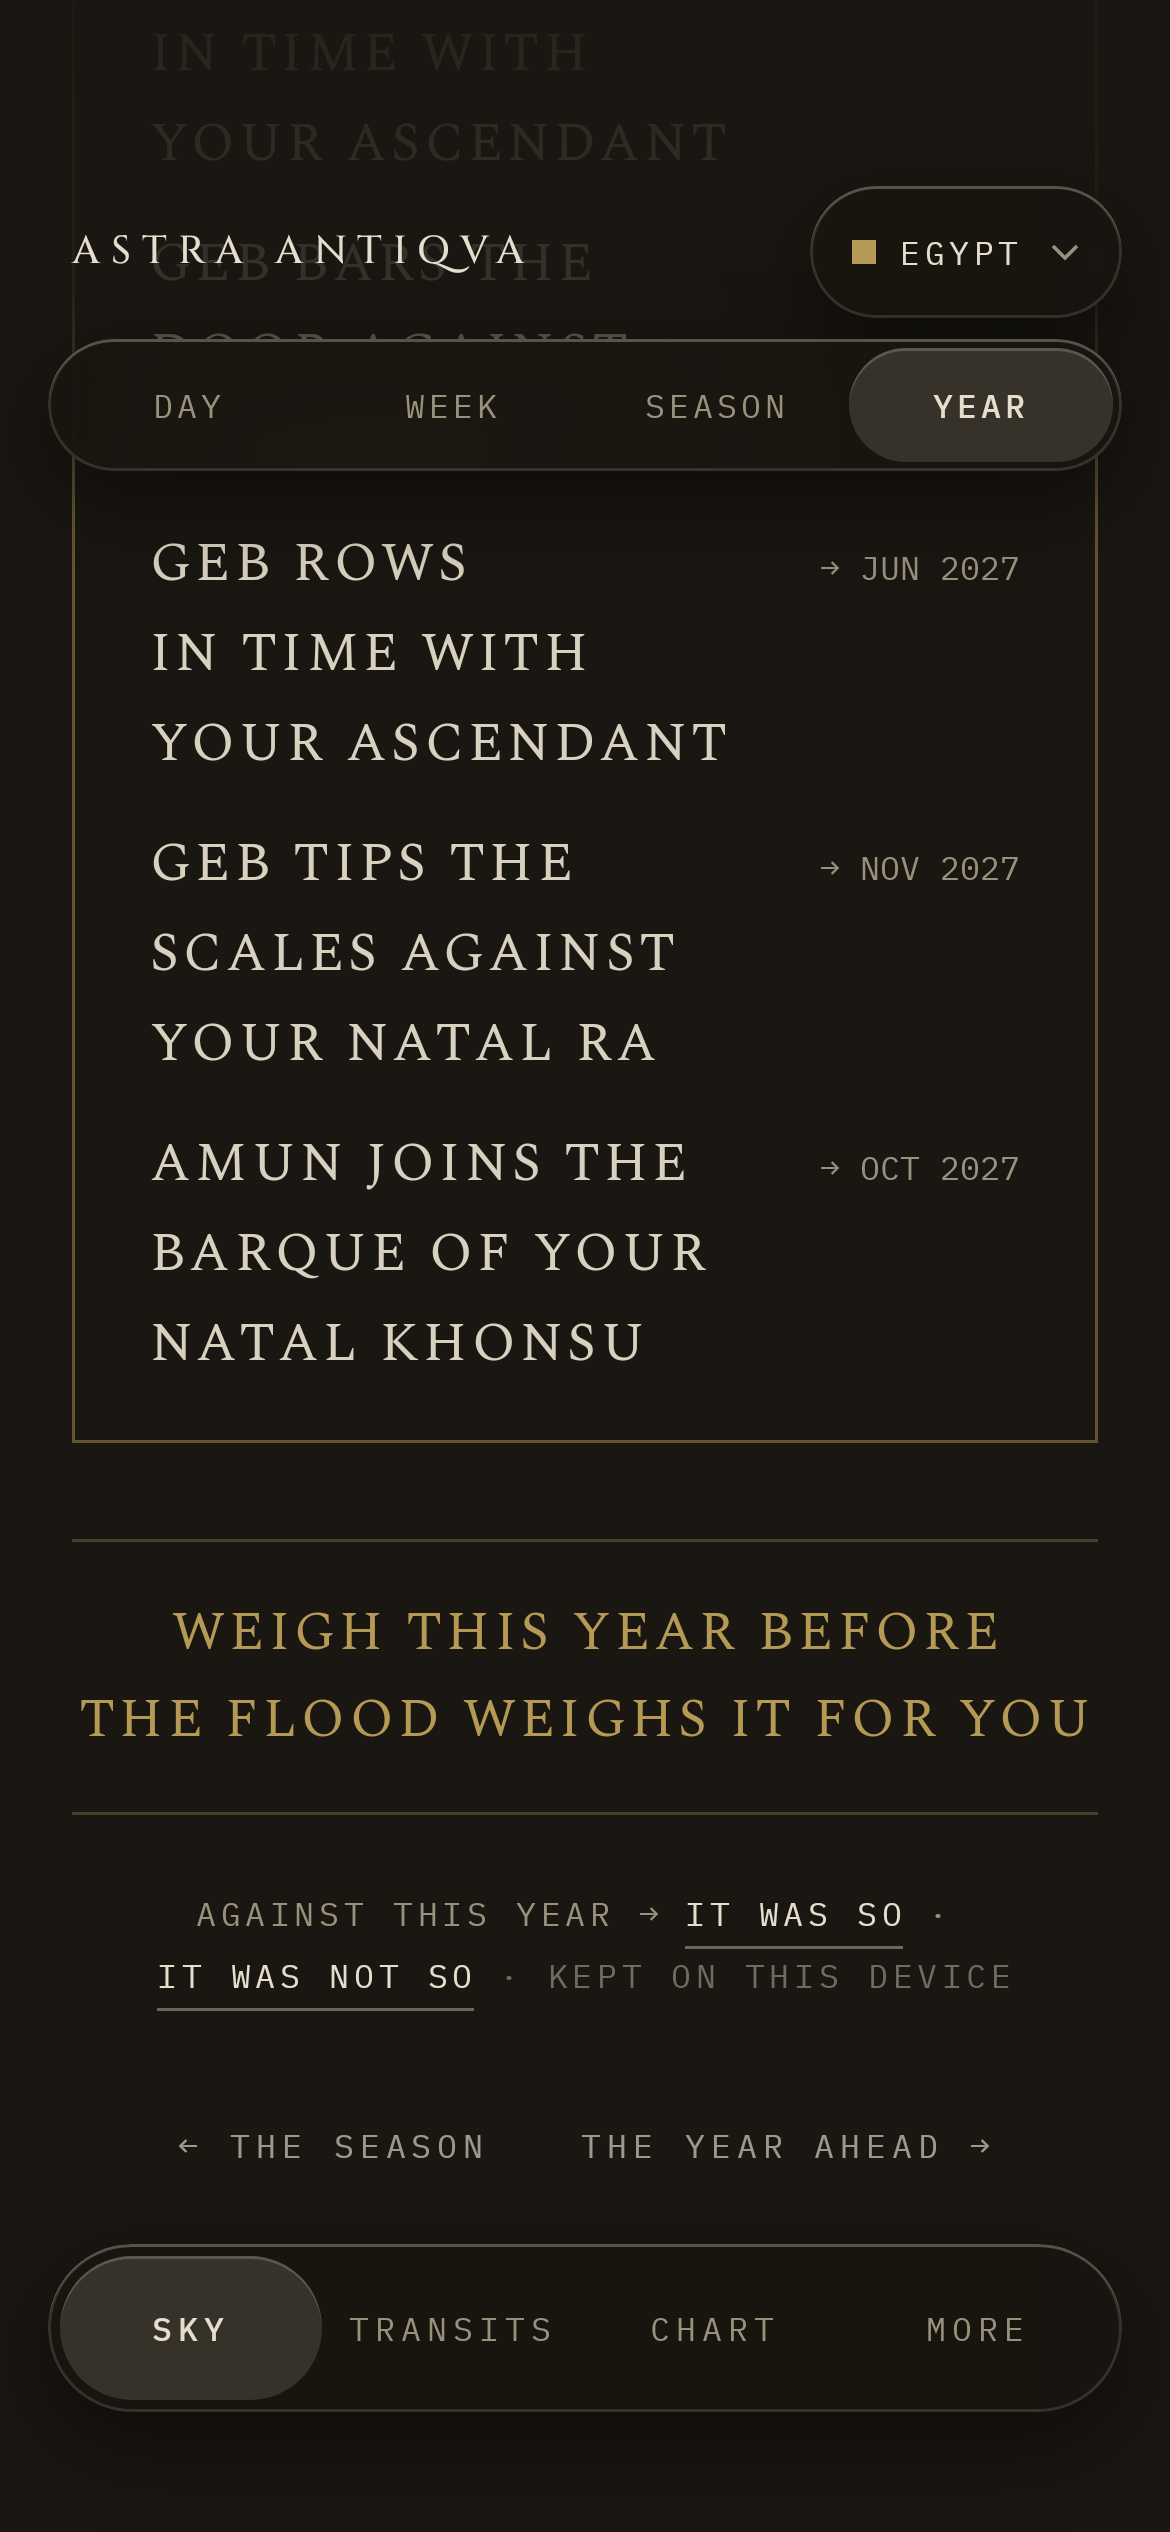
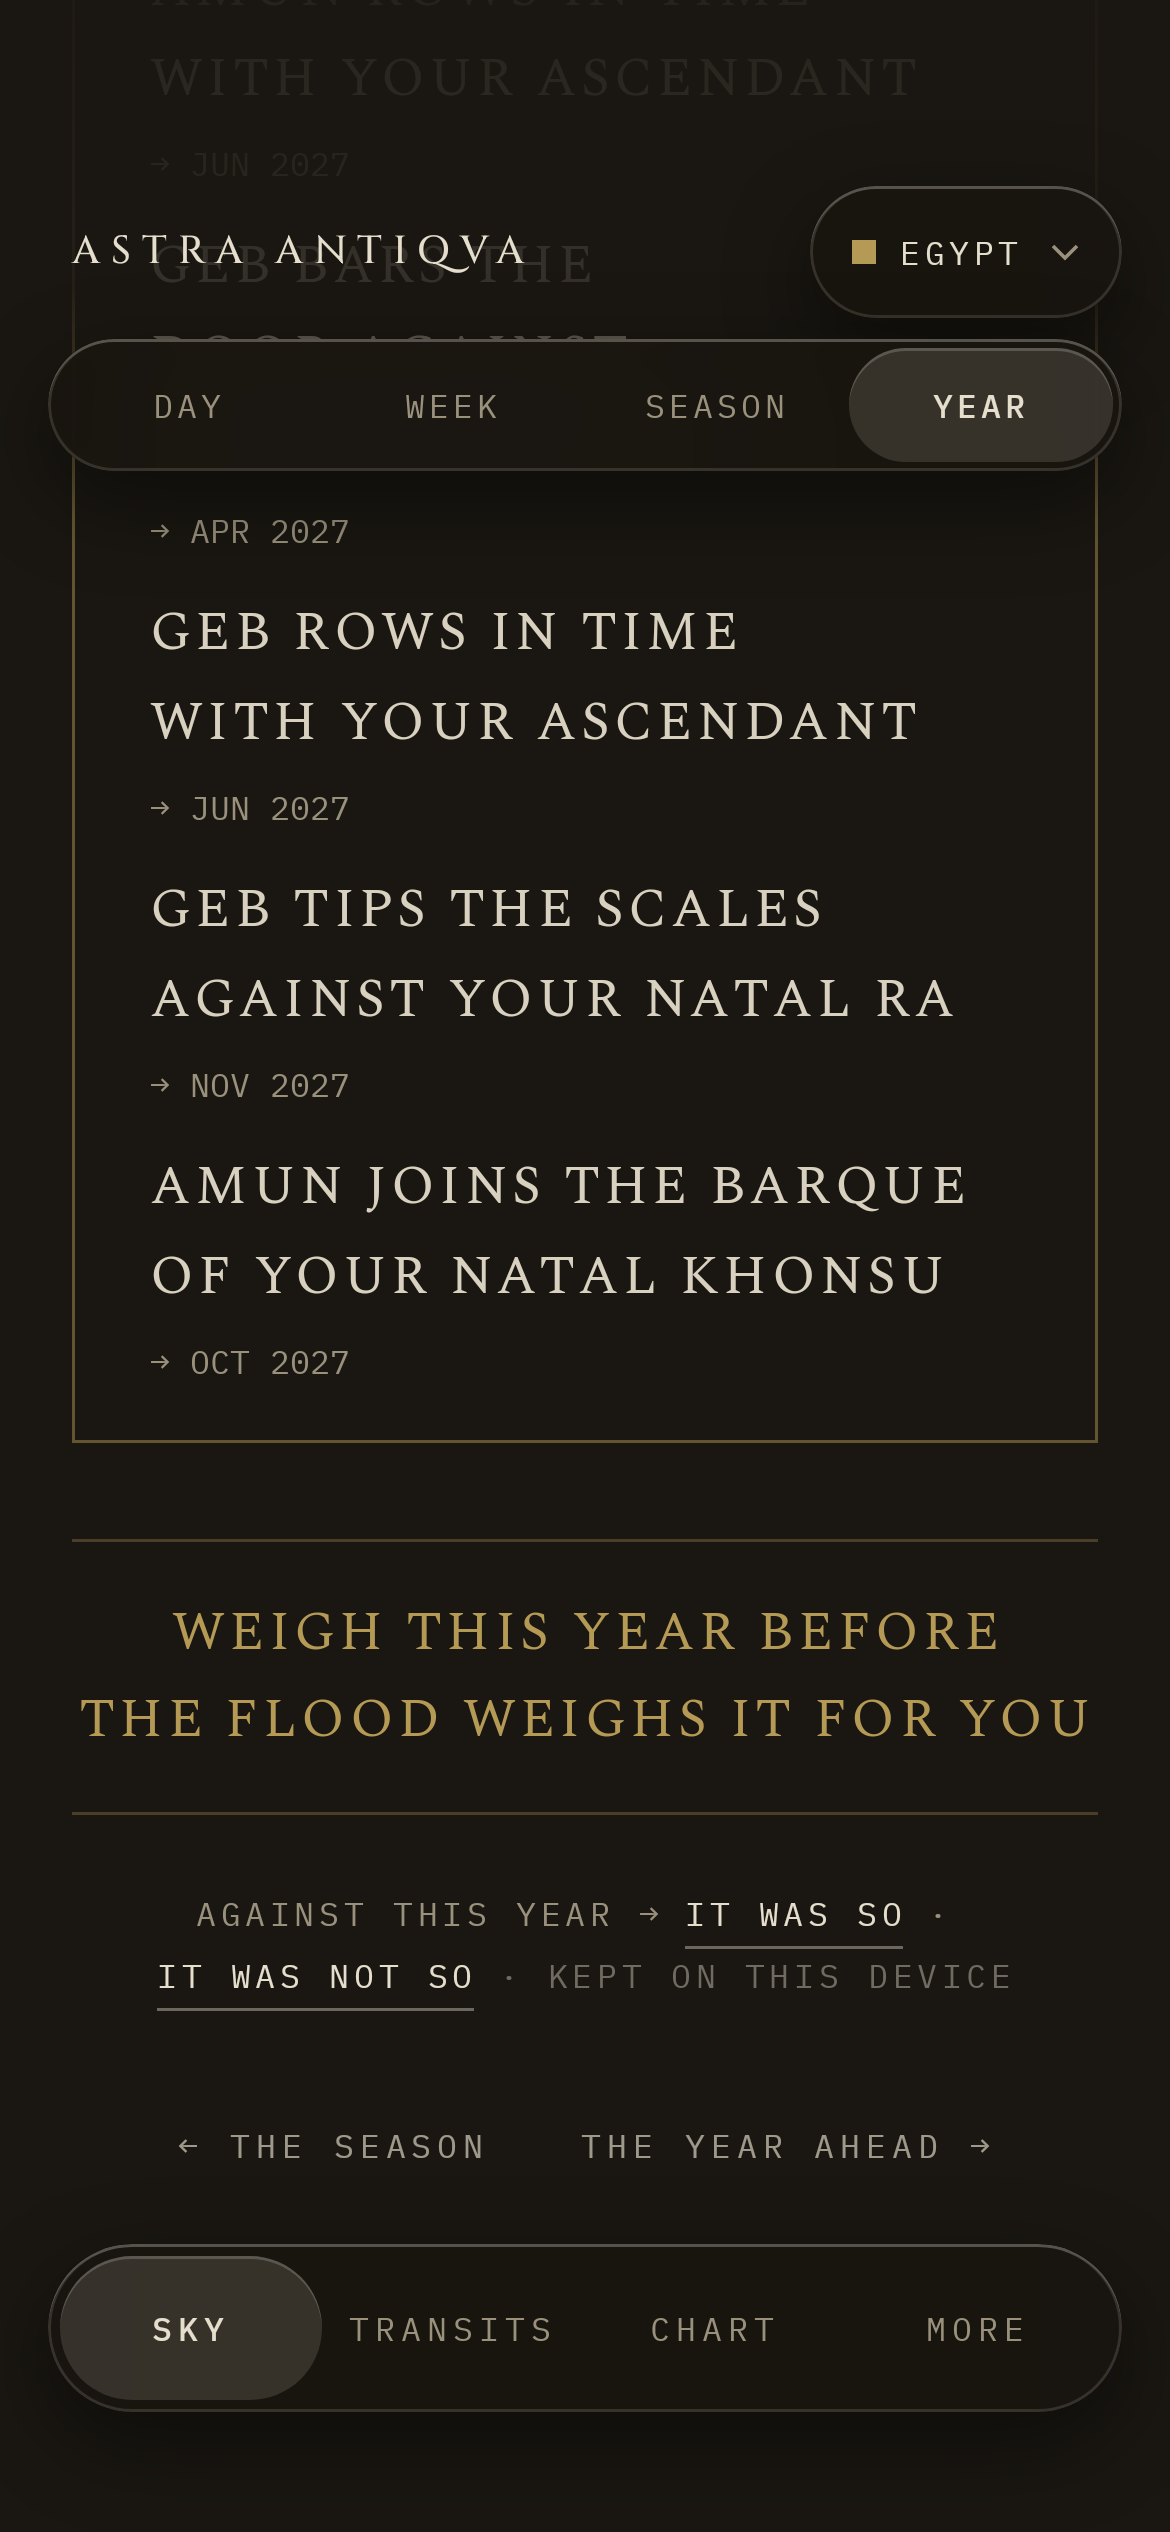
fix(android): Year spine end month under the headline, one size
Matthew's ruling: the headline takes the full width at 18sp .08em with
the end month 4 under it, at every width. Greece's spine rows at 360 and
the 1.3 spine rows no longer need named exceptions. 353 tests, 0 failures.

diff --git a/android/app/src/test/java/com/astra/antiqua/ui/screens/SkyYearScreenshotTest.kt b/android/app/src/test/java/com/astra/antiqua/ui/screens/SkyYearScreenshotTest.kt
@@ -256,12 +256,38 @@ class SkyYearScreenshotTest {
         compose.onNodeWithTag("year-segments").assertDoesNotExist()
     }
 
+    /**
+     * The spine rows (Matthew's popup, 2026-11-01, "End month under headline", "One size for the list"): the
+     * headline across the row's full width, the end month 4 under it (web's gap-1) on the headline's left edge,
+     * every row 48 or taller. Notes each row's height.
+     */
+    private fun unmergedBox(id: String): Rect =
+        compose.onNodeWithTag(id, useUnmergedTree = true).getUnclippedBoundsInRoot().let { Rect(it.left.value, it.top.value, (it.right - it.left).value, (it.bottom - it.top).value) }
+
+    private fun assertSpine(name: String) {
+        var i = 1
+        while (compose.onAllNodes(androidx.compose.ui.test.hasTestTag("spine-$i"), useUnmergedTree = true).fetchSemanticsNodes().isNotEmpty()) {
+            val row = box("spine-$i")
+            // Inside the row's cleared semantics: the unmerged tree.
+            val head = unmergedBox("spine-$i-headline")
+            val end = unmergedBox("spine-$i-end")
+            note("%s spine-%d %.1f tall (headline %.1f, end month %.1f)".format(name, i, row.h, head.h, end.h))
+            assertTrue("$name spine-$i headline spans the row: $head $row", abs(head.x - row.x) <= 0.5f && abs(head.w - row.w) <= 0.5f)
+            assertTrue("$name spine-$i end month 4 under the headline: $head $end", abs(end.y - (head.y + head.h) - 4f) <= 0.5f)
+            assertTrue("$name spine-$i end month on the headline's edge: $end", abs(end.x - head.x) <= 0.5f)
+            assertTrue("$name spine-$i under 48: $row", row.h >= 48f)
+            i++
+        }
+        assertTrue("$name: no spine rows", i > 1)
+    }
+
     @Test
     fun skyYearLargeFont() {
         // At 1.3 the title, the count line and the rows grow; the gaps between them hold.
         render("sky-year-font-130", AncientCulture.EGYPT, 0, fontScale = 1.3f)
         assertGaps("sky-year-font-130", boardGaps.take(7))
         note("sky-year-font-130 P44 %.1f tall, P45 %.1f, P47 %.1f".format(box("P44").h, box("P45").h, box("P47").h))
+        assertSpine("sky-year-font-130")
     }
 
     @Test
@@ -272,6 +298,7 @@ class SkyYearScreenshotTest {
         assertGaps("sky-year-360", boardGaps.take(7))
         val row = box("P47")
         note("sky-year-360 P47 got %.1f, %.1f · %.1fx%.1f".format(row.x, row.y, row.w, row.h))
+        assertSpine("sky-year-360")
         assertTrue("$row", abs(row.x - 45f) <= 1f && abs(row.w - 291f) <= 1f)
     }
 
@@ -296,6 +323,7 @@ class SkyYearScreenshotTest {
     fun skyYearEnd() {
         // The page's foot: web's opening, the segments, the spine, the votive, the feedback row and the links.
         render("sky-year-end", AncientCulture.EGYPT, 6000)
+        assertSpine("sky-year-end")
         assertChrome("sky-year-end")
         listOf("year-opening", "year-segments", "segment-1", "segment-2", "segment-3", "year-spine", "year-votive", "year-feedback", "year-links").forEach {
             noteBox("sky-year-end", it)
@@ -433,28 +461,8 @@ class SkyYearScreenshotTest {
 
     @Test
     @Config(qualifiers = "w360dp-h780dp-xxhdpi")
-    fun noLoneWordInAnyCultureAt360() = loneSweep("sky-year 360", allowed = narrowSpine)
-
-    /**
-     * The named exceptions at 360 (Greece's spine). A spine headline has 181 dp beside its end month; at the
-     * floor (16sp, .04em) KRONOS CHALLENGES and every two-word run holding SHOULDER WITH YOUR NATAL SELENE's
-     * last line are still wider, so no break gives each line two words. Only a string change (web's
-     * spanHeadline) or a different row layout clears them.
-     */
-    private val narrowSpine = mapOf(
-        "sky-year 360 GREECE [spine-4] KRONOS" to "KRONOS CHALLENGES YOUR NATAL HELIOS: KRONOS CHALLENGES does not fit 181 dp at 16sp; needs a string or layout change",
-        "sky-year 360 GREECE [spine-4] CHALLENGES" to "as KRONOS, same row",
-        "sky-year 360 GREECE [spine-4] HELIOS" to "as KRONOS, same row",
-        "sky-year 360 GREECE [spine-5] SHOULDER" to "ZEUS STANDS SHOULDER TO SHOULDER WITH YOUR NATAL SELENE: nine words need five lines of two at 181 dp; needs a string or layout change",
-    )
-
-    /** Accepted at 1.3 (Matthew's fix round, "record the rest"): the spine's 181 dp holds no two-word line of the longer words at 23.4sp. */
-    private val spineAt130 = mapOf(
-        "sky-year 390 1.3 EGYPT [spine-1] ASCENDANT" to "accepted at 1.3: YOUR ASCENDANT does not fit beside the end month at 1.3, even at 16sp .04em",
-        "sky-year 390 1.3 EGYPT [spine-2] MIDHEAVEN" to "accepted at 1.3: YOUR MIDHEAVEN does not fit beside the end month at 1.3, even at 16sp .04em",
-        "sky-year 390 1.3 EGYPT [spine-3] ASCENDANT" to "accepted at 1.3: as spine-1",
-    )
+    fun noLoneWordInAnyCultureAt360() = loneSweep("sky-year 360")
 
     @Test
-    fun noLoneWordAtFontScale130() = loneSweep("sky-year 390 1.3", listOf(AncientCulture.EGYPT), fontScale = 1.3f, allowed = spineAt130)
+    fun noLoneWordAtFontScale130() = loneSweep("sky-year 390 1.3", listOf(AncientCulture.EGYPT), fontScale = 1.3f)
 }

diff --git a/android/app/src/main/java/com/astra/antiqua/ui/screens/SkyYearScreen.kt b/android/app/src/main/java/com/astra/antiqua/ui/screens/SkyYearScreen.kt
@@ -512,8 +512,11 @@ private fun SegmentRow(seg: YearSegment, last: Boolean, id: String) {
 }
 
 /**
- * One row of web's spine: spanHeadline in the display face at .08em, the end
- * month in mono, dim. web links each row to /transits/{id}; each opens the
+ * One row of web's spine: spanHeadline in the display face at 18/1.65 .08em
+ * across the spine's full width, balanced, one size for the list; the end
+ * month in mono, dim, on its own line 4 under it (web's gap-1, as Week's
+ * headline over its line). Matthew's popup, 2026-11-01: "End month under
+ * headline", "One size for the list". web links each row to /transits/{id}; each opens the
  * transit detail on top, Midheaven spans included (TransitsViewModel walks
  * the Midheaven as web's readerSpans does, step 6).
  */
@@ -521,7 +524,7 @@ private fun SegmentRow(seg: YearSegment, last: Boolean, id: String) {
 private fun SpineRow(row: YearSpineRow, display: androidx.compose.ui.text.font.FontFamily, id: String, onOpen: (String) -> Unit) {
     val spoken = "${row.headline.lowercase()}, until ${row.end.removePrefix("→ ").lowercase()}"
     val source = remember { MutableInteractionSource() }
-    Row(
+    Column(
         Modifier
             .fillMaxWidth()
             .testTag(id)
@@ -529,17 +532,19 @@ private fun SpineRow(row: YearSpineRow, display: androidx.compose.ui.text.font.F
             .focusOutline(source)
             .clickable(source, indication = null, role = Role.Button, onClickLabel = "Open") { onOpen(Route.transitDetail(row.id)) }
             .clearAndSetSemantics { contentDescription = spoken },
-        horizontalArrangement = Arrangement.spacedBy(12.dp),
+        verticalArrangement = Arrangement.spacedBy(4.dp),
     ) {
-        // Balanced; a headline whose last word cannot share a line tightens (LoneWordFit.kt).
+        // Balanced at one size: minSize 18 keeps the list's size; where the balanced breaker still leaves a word
+        // alone (ASCENDANT at 1.3), LoneWordFit.kt breaks the lines by hand.
         NoLoneWordText(
             row.headline,
             style = TextStyle(fontFamily = display, fontSize = 18.sp, lineHeight = 18.sp * 1.65f, letterSpacing = 0.08.em, lineHeightStyle = CssLeading, lineBreak = LineBreak.Heading),
             color = Prose,
-            minSize = 16.sp,
-            modifier = Modifier.weight(1f).alignByBaseline(),
+            minSize = 18.sp,
+            modifier = Modifier.fillMaxWidth(),
+            textModifier = Modifier.fillMaxWidth().testTag("$id-headline"),
         )
-        Text(row.end, style = mono(11.sp, 1.65f, 0f), color = Dim, softWrap = false, modifier = Modifier.alignByBaseline())
+        Text(row.end, style = mono(11.sp, 1.65f, 0f), color = Dim, softWrap = false, modifier = Modifier.testTag("$id-end"))
     }
 }
 

diff --git a/docs/design/android-glass.md b/docs/design/android-glass.md
@@ -749,3 +749,4 @@ Tags: FACT names its source; INFERENCE is a judgment; CANNOT CONFIRM is open.
 - Open for Matthew (asked in one popup, 2026-11-01): Greece's Year spine rows 4 and 5 at 360 (string change, a
   different row layout, or accept); Year spine rows 1 to 3 at 17.5sp at 360 beside rows 4 and 5 at 18sp; approval
   of steps 6 and the lone-word fixes to steps 2 to 5.
+- FACT (Matthew's popup, 2026-11-01, after the renders of 86a2928: "End month under headline", "One size for the list", "Approved after the spine fix"; `SkyYearScreen.kt` `SpineRow`, `SkyYearScreenshotTest.assertSpine`): each spine row sets its headline across the full width at 18sp .08em, balanced, with the end month on its own line 4 under it (web's gap-1, the gap Week's rows keep between headline and line). The 360 size and tracking cut and the Greece spine-4/5 and 1.3 spine-1 to 3 exceptions are gone; at 1.3 spine-1 and spine-3 are broken by hand at the same size (AMUN ROWS / IN TIME WITH / YOUR ASCENDANT). Rows: 390 82.3 (spine-2 112.3), 360 82.3 or 112.3, 1.3 134.7. Local: 353 tests, 0 failures; step 5 `sky-year-end` and `sky-year-greece-end` re-rendered.

diff --git a/HANDOFF.md b/HANDOFF.md
@@ -240,3 +240,7 @@ CANNOT CONFIRM: none recorded in this repo; the owner has named none.
   353 tests, 0 failures. Record: `docs/design/android-glass.md` (step 6, design round).
 - Pending: Matthew's popup on Greece's Year spine at 360, the mixed spine size at 360, and approval; push and PR on
   his word.
+- FACT (Matthew's popup, 2026-11-01): "End month under headline", "One size for the list", "Approved after the spine
+  fix". Built: Year spine rows set the headline full width at 18sp .08em with the end month 4 under it; no named
+  spine exceptions remain. Local: 353 tests, 0 failures. Step 6 approved. Next: step 7, Chart, in a fresh session;
+  push and PR (stacked on #15) on Matthew's word.
